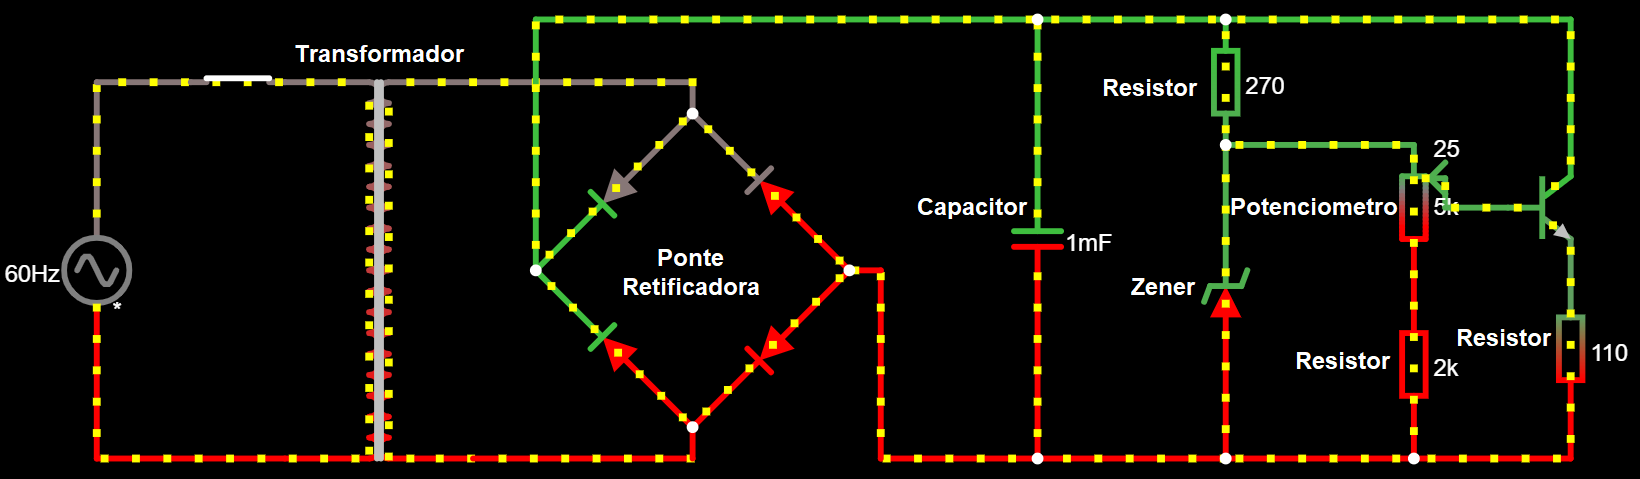
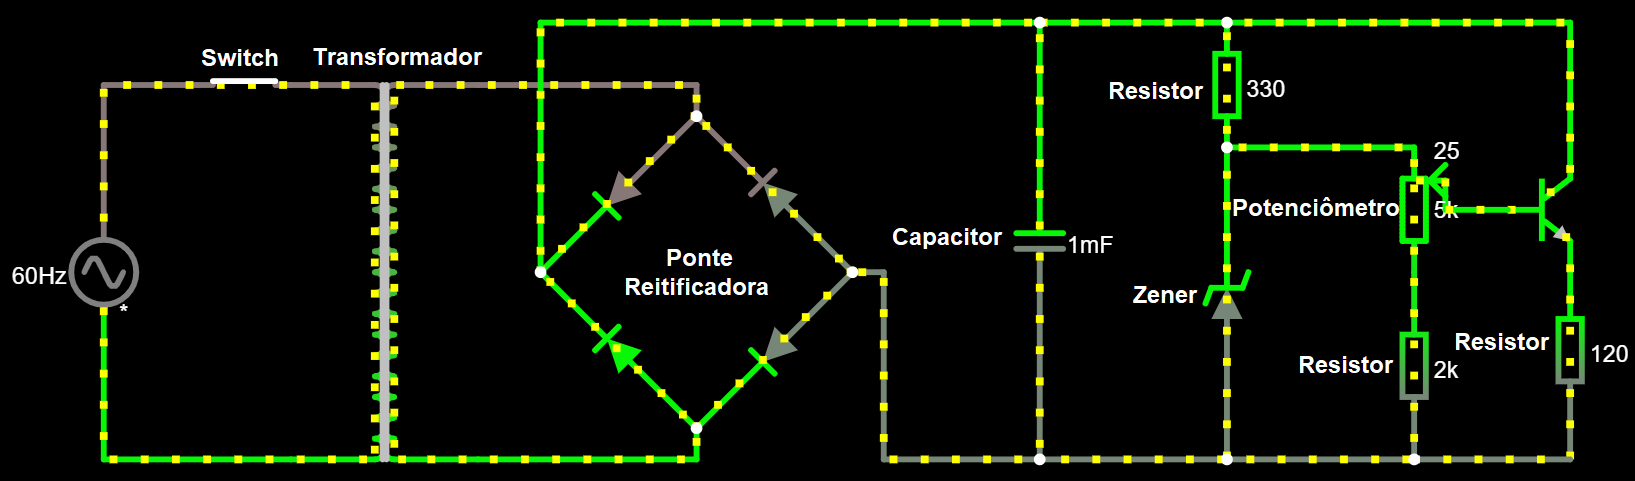
README

Changed region(s): [[0.0, 0.0292, 0.9982, 0.9645], [0.3431, 0.6138, 0.4055, 0.8184], [0.3743, 0.4969, 0.4679, 0.6138]]

diff --git a/README.md b/README.md
@@ -10,7 +10,7 @@
 ## O intuito do projeto é desenvolver uma fonte elétrica que transforma a partir da tomada (no nosso caso 110V - corrente alteranada) em uma tensão que não seja prejudicial ao nosso circuito, tal tensão está entre 3 e 12 Volts em corrente contínua.
 ## **Esquema do Circuito**: 
 ## ![Screenshot](Screenshot.png)
-## **Link para o circuito no [Falstad]**(http://tinyurl.com/yca5v5q7) 
+## **Link para o circuito no [Falstad](http://tinyurl.com/yca5v5q7)** 
 --------
 | **Componente** | **Especificações** | **Valor(Unitário)** |
 |:---------------:|:-------------:|:---------------:|
@@ -18,7 +18,7 @@
 |4x Diodo | 400V e 3A | [R$0,38](https://www.autoeletronica.net/produtos/diodo-retificador-1n5404) |
 |Diodo Zener | 1W e 15V | [R$0,18](https://www.autoeletronica.net/produtos/diodo-zener-1n4744a-15v-1w) |
 |Capacitor | 1mF | [R$2,87](https://produto.mercadolivre.com.br/MLB-1499835576-capacitor-eletrolitico-1mf-x-400v-kit-c10-pcs-_JM?quantity=1#position=1&type=item&tracking_id=fa215f29-9e58-4df8-935f-7aea9beaf1e2) |
-|Potenciometro | 5kΩ | [R$1,52](https://www.americanas.com.br/produto/212584212/potenciometro-linear-5k-16mm-eixo-estriado?WT.srch=1&acc=e789ea56094489dffd798f86ff51c7a9&epar=bp_pl_00_go_inf-aces_acessorios_geral_gmv&gclid=EAIaIQobChMIlqedgtb_6QIVwoORCh24ZwAEEAkYAiABEgI6w_D_BwE&i=5d712b2d49f937f6250d8225&o=5d6e754f6c28a3cb50909602&opn=YSMESP&sellerid=10428528000110) |
+|Potenciômetro | 5kΩ | [R$1,52](https://www.americanas.com.br/produto/212584212/potenciometro-linear-5k-16mm-eixo-estriado?WT.srch=1&acc=e789ea56094489dffd798f86ff51c7a9&epar=bp_pl_00_go_inf-aces_acessorios_geral_gmv&gclid=EAIaIQobChMIlqedgtb_6QIVwoORCh24ZwAEEAkYAiABEgI6w_D_BwE&i=5d712b2d49f937f6250d8225&o=5d6e754f6c28a3cb50909602&opn=YSMESP&sellerid=10428528000110) |
 |Resistência | 120Ω | [R$0,23](https://produto.mercadolivre.com.br/MLB-1278829161-100x-104615-resistor-025w-120-ohms-carvo-_JM?quantity=1#position=5&type=item&tracking_id=3da44ff8-1b4b-4355-aedb-9b4564d157de) |
 |Resistência | 330Ω | [R$0,13](https://produto.mercadolivre.com.br/MLB-1342907792-resistor-330-ohms-100-unidades-_JM?quantity=1#position=1&type=item&tracking_id=64df90b6-86bd-4de3-8a9f-d59c6ad031f4) |
 |Resistência | 2kΩ | [R$0,17](https://produto.mercadolivre.com.br/MLB-1359755617-100un-resistor-18w-2k-2000-ohms-_JM?quantity=1#position=1&type=item&tracking_id=cfe0aced-991b-46f7-ad48-868c569c5428) |
@@ -26,21 +26,21 @@
 |Custo Total | | **R$40,62** |
 ## Justificativa dos componentes escolhidos:
 ### Transformador:
-        - Transforma a corrente alternada de 127V em uma corrente, ainda alternada, de 17V, assim ficamos mais próximos da tensão de entre 3 e 12V desejada 
+    - Transforma a corrente alternada de 127V em uma corrente, ainda alternada, de 17V, assim ficamos mais próximos da tensão de entre 3 e 12V desejada 
 ### Ponte Retificadora:
-        - Transforma a corrente alternada de ~17V em uma corrente contínua de ~16V com ~342 nA
+    - Transforma a corrente alternada de ~17V em uma corrente contínua de ~16V com ~342 nA
 ### Capacitor:
-        - O intuito do capacitor é guardar corrente e com isso liberá-la quando necessário para o circuito. Como queremos manter a tensão máxima o mais próximo possível de 12V, usaremos um capacitor de 1 micro Faraday. 
+    - O intuito do capacitor é guardar corrente e com isso liberá-la quando necessário para o circuito. Como queremos manter a tensão máxima o mais próximo possível de 12V, usaremos um capacitor de 1 micro Faraday. 
 ### Diodo Zener:
-        - Transformar a corrente alternada que vem da tomada e consequentemente do transformador em corrente contínua, como ele tem ~6mA e ~13V temos P = i.u -> P = 0,006 * 13 -> P = 0,78W -> P = 780 mW então um diodo de 1W se faz suficiente.
-### Potenciometro:
-        - Resistor variável que controla qual a tensão atual no circuito, no nosso caso temos um mínimo de ~2.7V e um máximo de ~12.2V
+    - Transformar a corrente alternada que vem da tomada e consequentemente do transformador em corrente contínua, como ele tem ~6mA e ~13V temos P = i.u -> P = 0,006 * 13 -> P = 0,78W -> P = 780 mW então um diodo de 1W se faz suficiente.
+### Potenciômetro:
+    - Resistor variável que controla qual a tensão atual no circuito, no nosso caso temos um mínimo de ~2.7V e um máximo de ~12.2V
 ### Resistência:
-        - 120Ω: Ajuda a regular a tensão de saída
-        - 330Ω: Limita a corrente que passa pelo Zener, cujo qual não pode ter uma potência maior que 1W ou uma tensão maior que 15V
-        - 2kΩ: Ajuda a regular a tensão de base que volta ao transformador e consequentemente a voltagem final do circuito
+    - 120Ω: Ajuda a regular a tensão de saída
+    - 330Ω: Limita a corrente que passa pelo Zener, cujo qual não pode ter uma potência maior que 1W ou uma tensão maior que 15V
+    - 2kΩ: Ajuda a regular a tensão de base que volta ao transformador e consequentemente a voltagem final do circuito
 ### Switch:
-        - Ligar e desligar o circuito
+    - Ligar e desligar o circuito
 --------
 # Agradecimentos:
 ## Agradecer ao professor Simões por mesmo em tempos difíceis como os atuais estar se esforçando para o decorrer da disciplina. O grupo espera que tudo esteja bem e espera que assim que possível possa voltar a reencontrar o professor presencialmente pelo Campus ou no ICMC.
